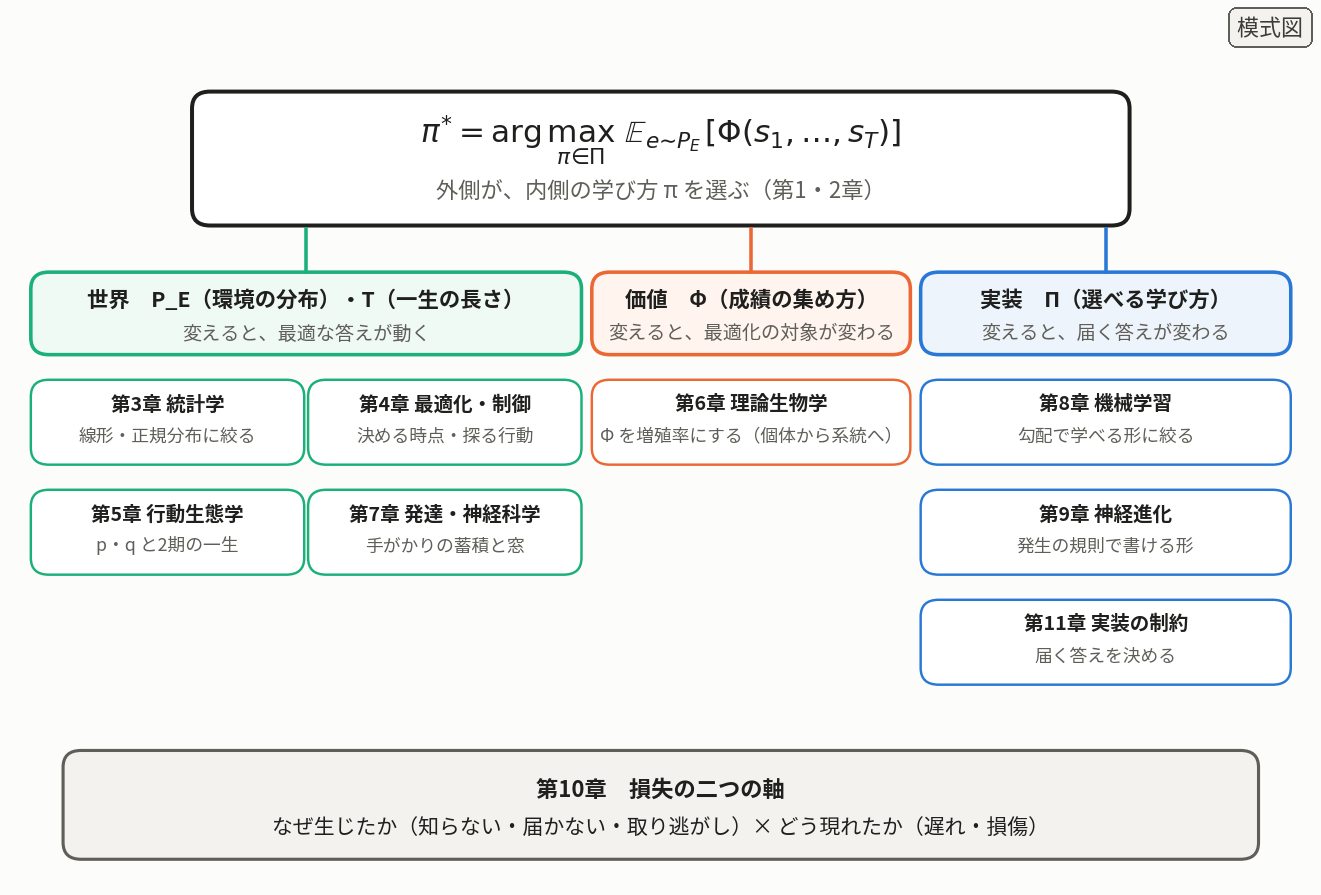
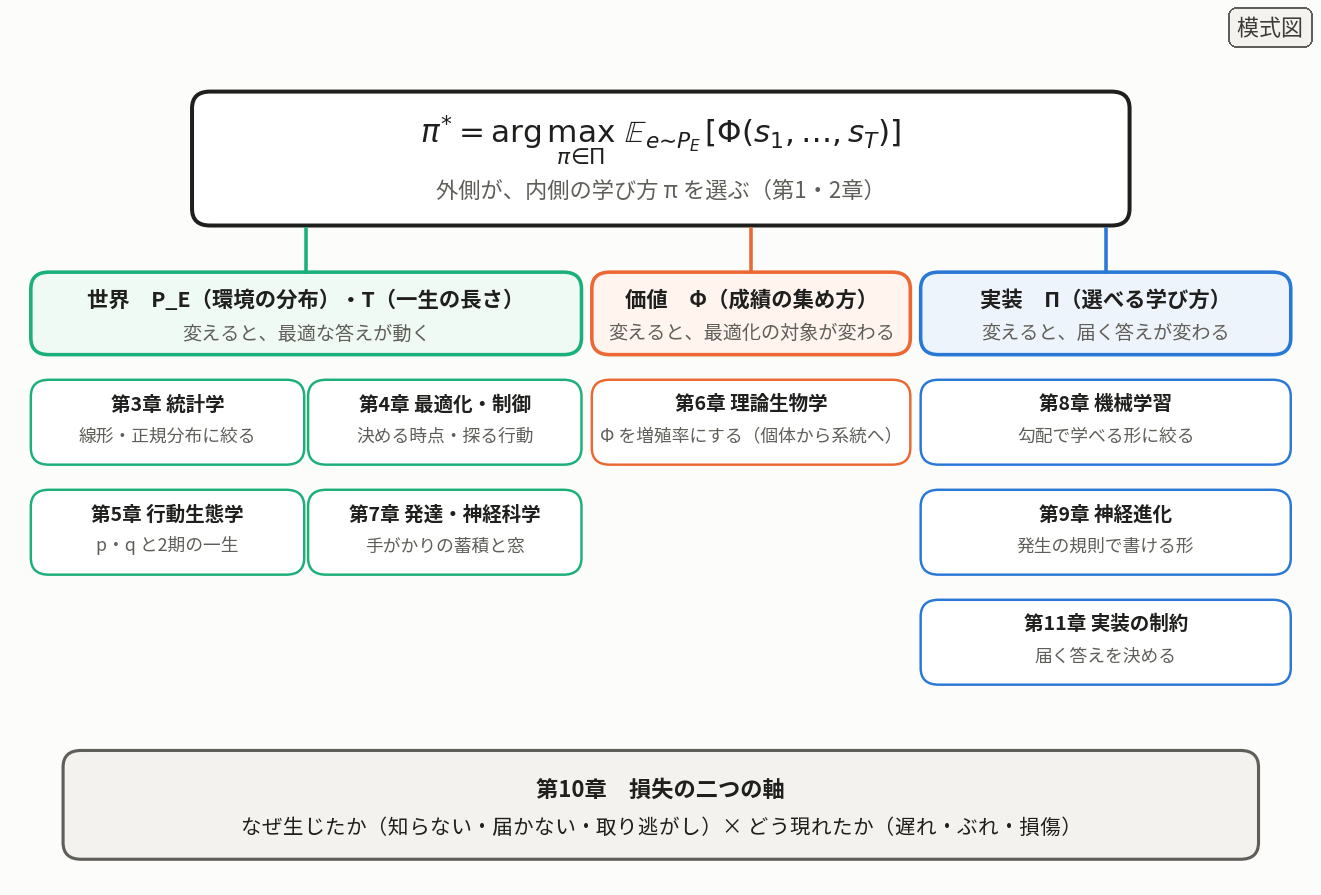
Fix figures 0-1 and 9-1 for edition 4.2
Figure 0-1 still listed two manifestations of loss (delay, damage);
edition 4 has three (delay, jitter, damage). Figure 9-1 still said
about 37 bits per connection, although the text was changed to 36.5
bits in edition 3.6. Redraw only the affected labels in the same font,
size and colour, and note both corrections in the figure notes.

Changed region(s): [[0.1862, 0.905, 0.807, 0.9352]]

diff --git a/index.html b/index.html
@@ -3768,7 +3768,7 @@ def excess(v0, eta):                 # 一生の平均の余分な誤り
 <h2 id="s22">図について</h2>
 <p>図はどれも、説明のための数値例か模式図で、実験や観察のデータではない。図の中の右上にも、その種類を札で示した。</p>
 <ul>
-<li>図0-1：本書の構成（世界・価値・実装の三つの座標と、損失の二つの軸）を示す模式図</li>
+<li>図0-1：本書の構成（世界・価値・実装の三つの座標と、損失の二つの軸）を示す模式図。第4.2版で、損失の現れ方を第4版の三つ（遅れ・ぶれ・損傷）に直した</li>
 <li>図1-2：三つの時計と、二つの最適化の一歩の速さを並べた模式図</li>
 <li>図2-1：入れ子の最適化の模式図</li>
 <li>
@@ -3784,7 +3784,7 @@ def excess(v0, eta):                 # 一生の平均の余分な誤り
 <li>図6-1：本文の数値例（良い年の確率 0.7、芽生えの倍率 3、悪い年は全滅、休眠中の死亡なし）</li>
 <li>図7-1：初めの不確かさ P₀ = 4、手がかりの雑音 r = 1 のスカラーのカルマンフィルタ。緑の線は q = 0.02</li>
 <li>図8-1：20個の重みを持つ線形回帰。課題 A は 13〜20 番の入力をほとんど使わず、課題 B は重み 1〜6 番と 13〜20 番で課題 A と違う答えを求める。学習率 0.01、16例ずつのミニバッチで、各課題400回更新した。守る学習は、課題 A の後の重みのまわりに、入力の二乗の平均で重みをつけた罰則（強さ 3）をかけた</li>
-<li>図9-1：Zador (2019) の見積もりによる</li>
+<li>図9-1：Zador (2019) の見積もりによる。結合一つあたりの情報量は log₂ 10¹¹ ≈ 36.5 ビット（第4.2版で、図の「約37ビット」を本文に合わせて直した）</li>
 <li>図10-1：一生 50 回、観測雑音 r = 1、学ぶべき部分の初めの誤りの分散 1、部分の半分が固定成分の場合。緑の一点鎖線は、固定成分の学習率を 0 にし、学ぶべき部分をカルマンの利得で学ぶ学習者。第4版で、遅れ・ぶれ・損傷の三つに分けて描き直した（ぶれと損傷は、この例では同じ大きさで、一本の線に重なる）。付録E-4のコードで作った</li>
 <li>図10-2：図10-1 と同じ条件。固定成分の位置と値は世代を越えて決まっており（環境の分布の一部）、学ぶべき部分の値だけが世代ごとに違う。神託（学ぶべき部分のその世代の値を知る）の余分な誤りは 0、理想の学習者（固定成分を動かさず、学ぶべき部分をカルマンの利得で学ぶ。ベイズ最適）は 0.045、共通の学習率の範囲で最良（η ≈ 0.096）は 0.100、実際の学習者（η = 0.3）は 0.189。モンテカルロ法（4000世代、部分200個）でも 0.045、0.100、0.189 を再現した。第4.2版で、注記を第4版の三つの現れ方に合わせて直した（右にずれると、主にぶれと損傷が増える）</li>
 <li>図C-1：図10-2 の四つの値を、階段として描いたもの</li>

diff --git a/CHANGELOG.md b/CHANGELOG.md
@@ -8,7 +8,7 @@
   - 学習理論との関係：第2層と第3層は学習理論の誤差の分解から借りたものと書き直し、第4.1版の「学習理論の分解に第1層を加えた」という言い過ぎを直した（第10章10.3、付録A、付録C.6、文献の根拠の表）。序章と付録Aに、■▲○の印と表の空欄を、翻訳が止まる場所から隠れた前提を見つけるために使うことを書いた
   - 別稿との照合：応用編の社会科学の囲みに、別稿は第3.6版の会計にもとづき、帰結の分け方が本書と違うことを書いた。応用5に、割り当てを一度だけ決める約束が別稿から持ち帰ったものであることを加えた。応用2の「数式で見る」で、本文の二つの列を合わせた量を L^T と呼び直した
   - 校正：第6章の増殖率と最悪値の対比を「倍率が 0 にならない限り」に限った。10.5節の不感帯の値段を、第2層か第3層（課された制約か、選んだのか）に直した。約束の一覧の2の「何が変わるか」に第1層の大きさを加えた。付録E に、E-4 の第11章の表が scipy を使うことを書いた
-  - 図とコード：図10-1 を、第4版の三つの現れ方（遅れ、ぶれと損傷）で描き直した。図10-2 の注記を「主にぶれと損傷が増える」に直した。付録E-4 のコードを第4版の会計に差し替え、本文の用語（ぶれ、慎重すぎる学習者）にそろえ、本文が引用する excess と、4000世代・部分200個のモンテカルロ法を戻した。付録E の 8本のコードを実行し、本文の数値（10.5節の表、慎重すぎる学習者、応用1の表、守るべき部分を見分ける世界、モンテカルロ法）との一致を確かめた
+  - 図とコード：図10-1 を、第4版の三つの現れ方（遅れ、ぶれと損傷）で描き直した。図10-2 の注記を「主にぶれと損傷が増える」に直した。図0-1 の損失の現れ方を「遅れ・ぶれ・損傷」に、図9-1 の結合一つあたりの情報量を、第3.6版で本文を直したときに残っていた「約37ビット」から「約36.5ビット」に直した。付録E-4 のコードを第4版の会計に差し替え、本文の用語（ぶれ、慎重すぎる学習者）にそろえ、本文が引用する excess と、4000世代・部分200個のモンテカルロ法を戻した。付録E の 8本のコードを実行し、本文の数値（10.5節の表、慎重すぎる学習者、応用1の表、守るべき部分を見分ける世界、モンテカルロ法）との一致を確かめた
 - 第4.1版（2026-10-17）：応用編を「一つの主体から、多くの主体へ」として、多目的の最適化、モデルの編集、多数のエージェント、ゲーム理論を扱う編に組み直した。「はじめに」の読み方を五つの段（段4「外へ持ち出す」を追加）にした
 - 第4版（2026-10-17）：第10章の損失の会計を改めた。学ぶべき部分が経験の雑音で揺れる分を「ぶれ」として損傷から分け、損失の現れ方を遅れ・ぶれ・損傷の三つにし、三つの層と三つの現れ方の表を数で埋めた（10.5節）。表の欄が負になりうること、証人による第3層の下限、一回きりの実現の注意を付録C.6に加えた。「理想の学習者には損傷は生じない」が、守るべき部分を知っている世界でだけ成り立つことを明記した。三つの層の数値（0.045・0.055・0.090）は変わらない
 - 第3.6版（2026-10-15）：第3.5版へのレビューを受け、内容は足さずに、数学・引用・主張の強さ・編集の四つの監査だけを行った
